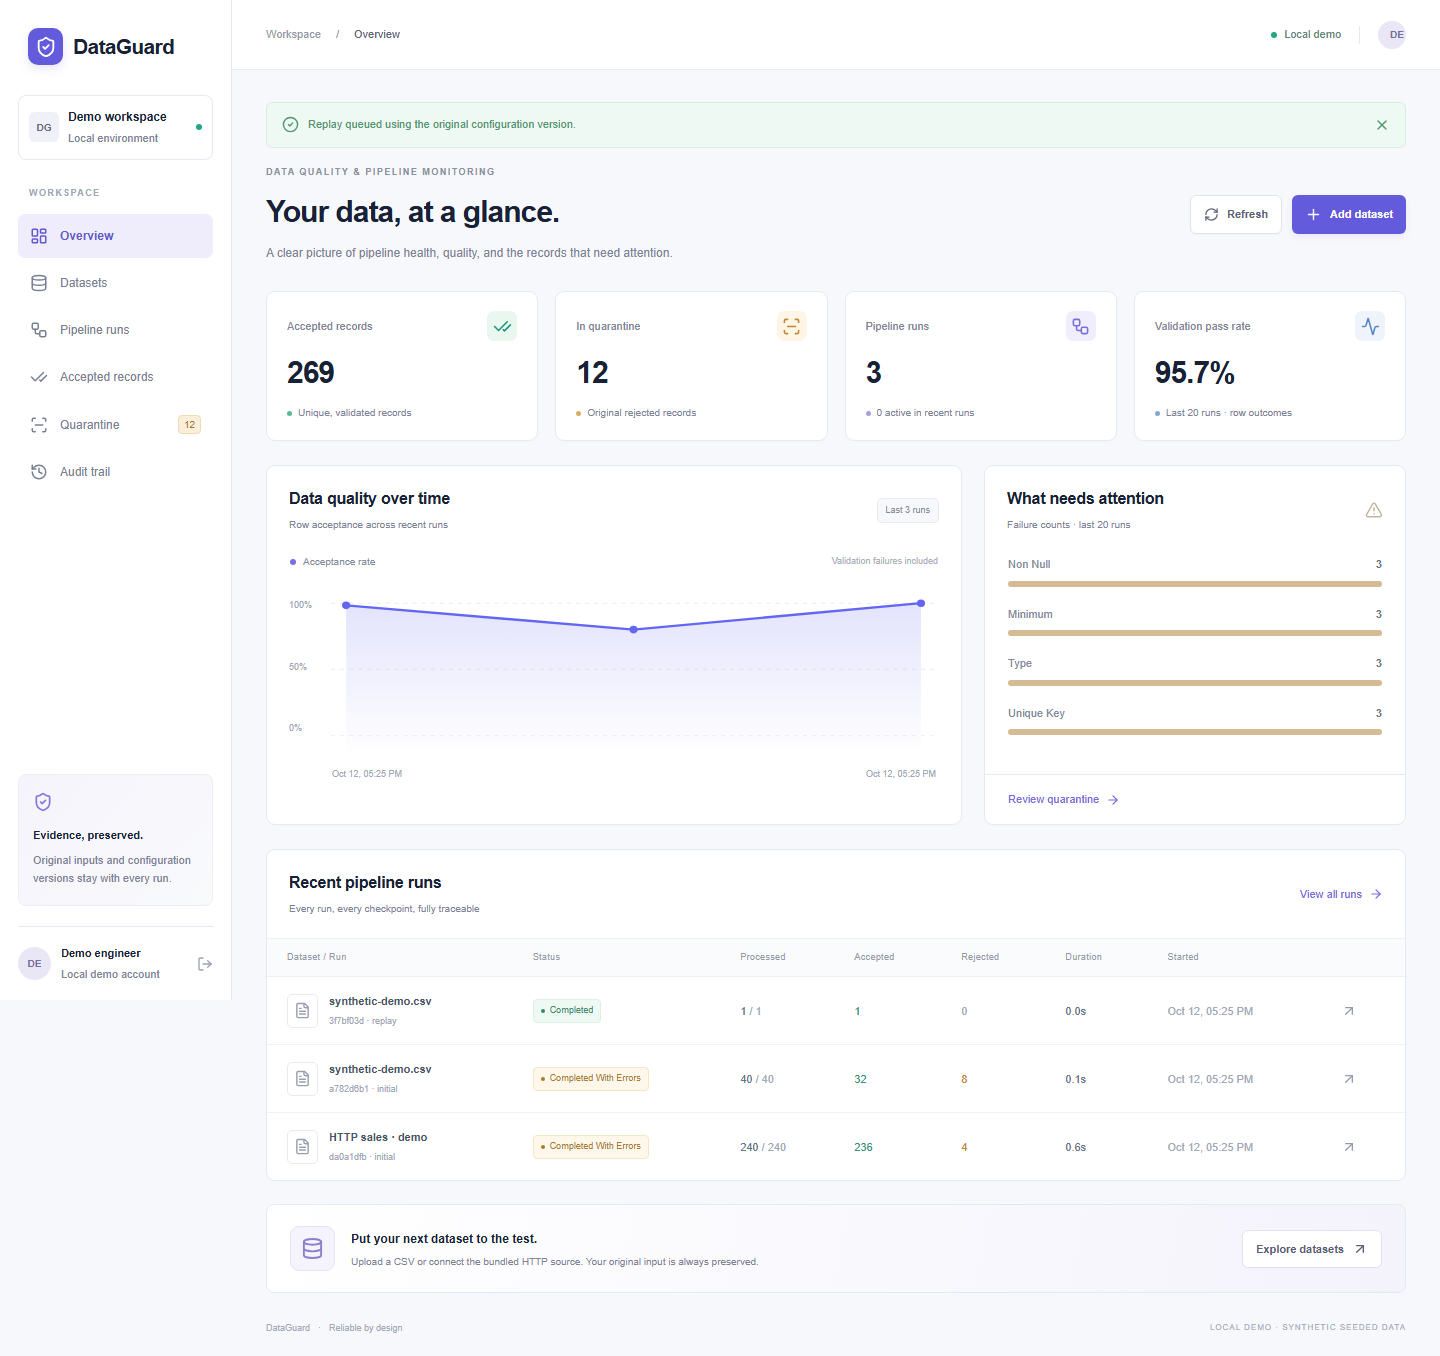
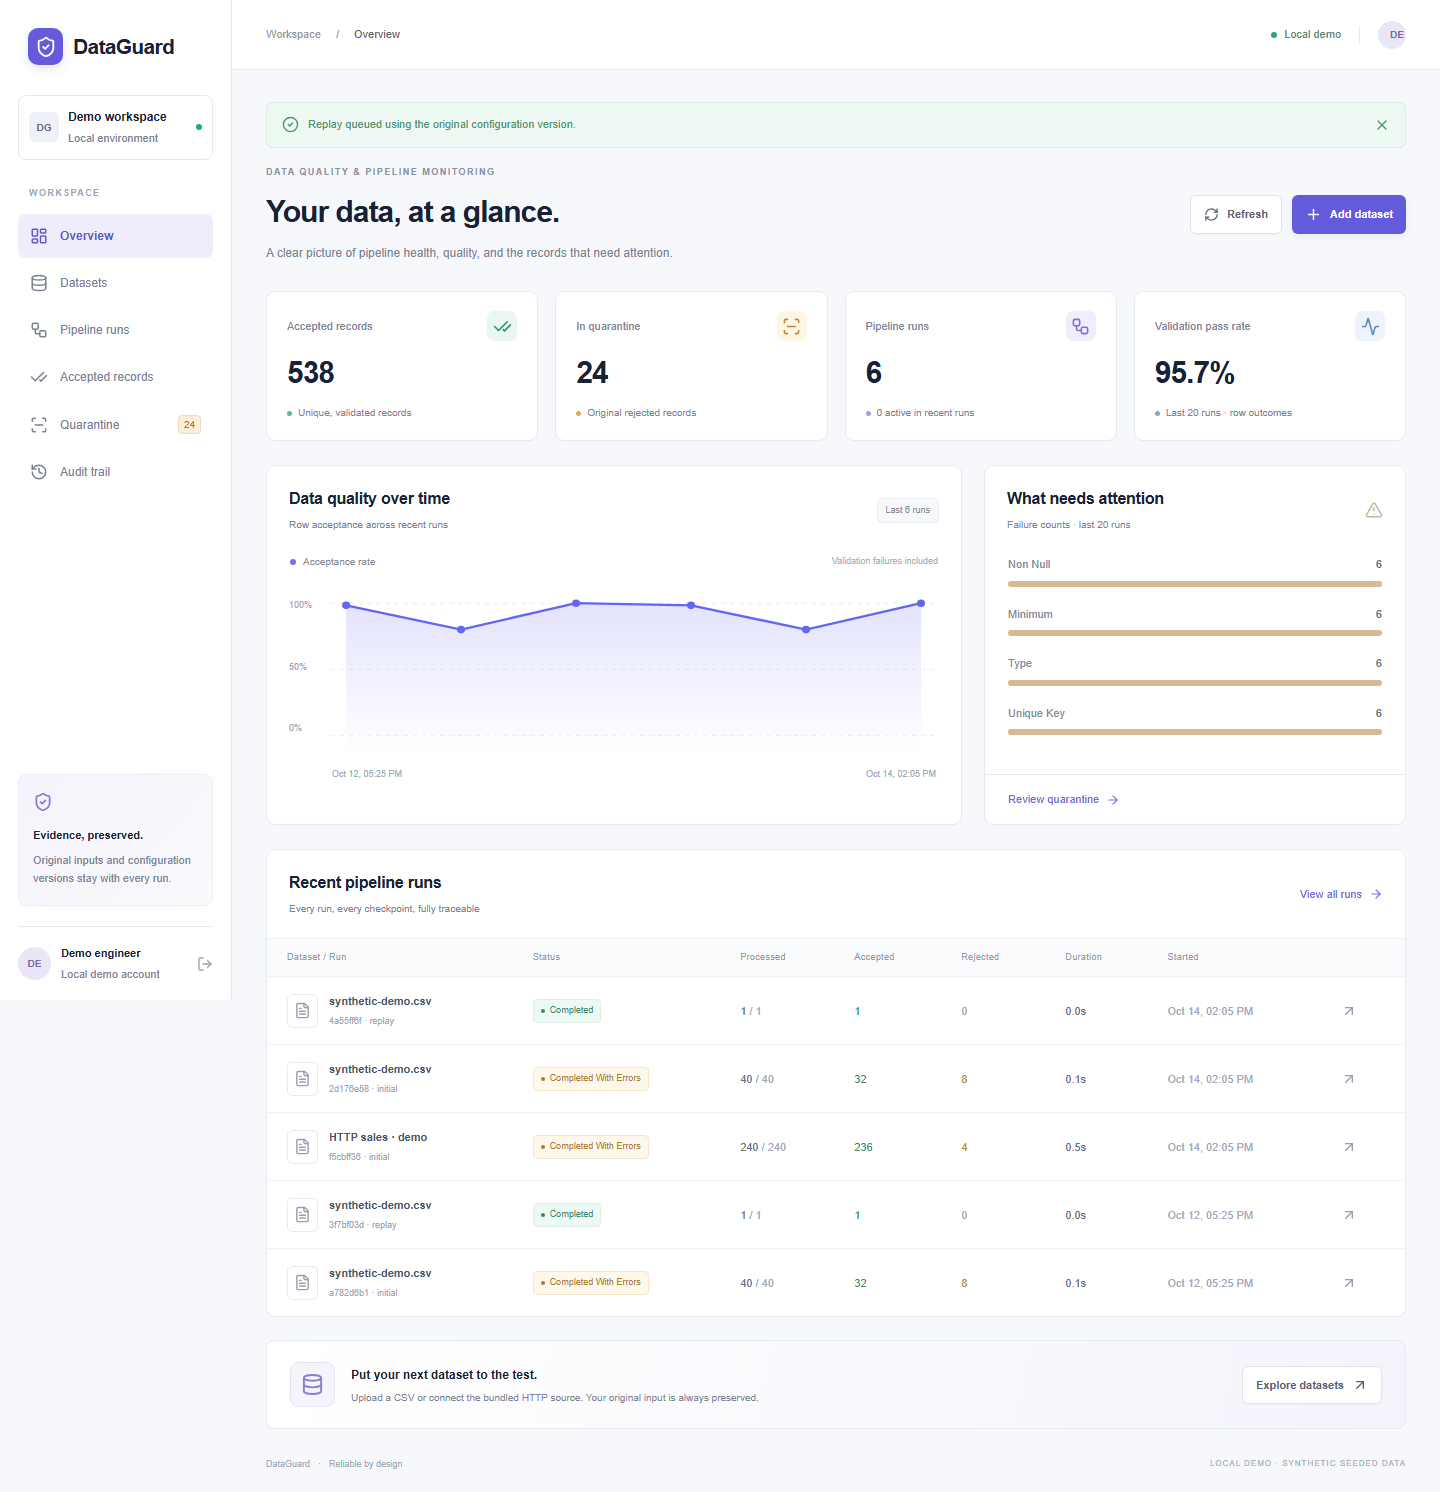
Add Windows launcher and automatic service restart after Docker recovery

diff --git a/docs/VERIFICATION.md b/docs/VERIFICATION.md
@@ -1,5 +1,13 @@
 # Verification ledger
 
+## October 14, 2026: recurring Docker startup failure
+
+Docker was stopped and failed to restart with the same inaccessible `dockerInference` socket error. Preserving the two affected runtime communication folders and relaunching Docker restored Engine 29.6.1. DataGuard's existing database volume was retained.
+
+Added `Start-DataGuard.cmd` / `Start-DataGuard.ps1` with bounded readiness checks, a conditional backup-and-retry workaround for this exact failure, and actionable errors for other failures. Verified the launcher's normal startup path with Windows PowerShell and `-NoBrowser`: Compose started successfully, API health returned OK, and the webpage returned HTTP 200. Runtime services now use `restart: unless-stopped`; the one-shot migration service does not.
+
+Both browser scenarios passed against the restored full Docker stack: **2 passed, 15.2 seconds**. This is a startup workaround, not a permanent repair of the underlying Windows/Docker issue. The automated repair branch was not deliberately retriggered after restoring the engine; its underlying backup/relaunch operations were performed during this incident.
+
 Build date: October 12, 2026 (America/Los_Angeles). Results below distinguish real tests from supplied but unexecuted deployment paths.
 
 ## Executed

diff --git a/README.md b/README.md
@@ -6,6 +6,12 @@ Upload a sales CSV, preview it, version its validation rules, process it in boun
 
 ![DataGuard dashboard](docs/dashboard.png)
 
+## Windows: one-click startup
+
+Double-click `Start-DataGuard.cmd` in this folder. It starts Docker when needed, starts DataGuard, waits for the API and webpage, and opens the app. If Docker encounters the diagnosed inaccessible temporary-socket error, the launcher preserves the affected runtime folders as timestamped backups and retries once. It does not reset Docker data or delete volumes. Other startup failures are reported without applying this repair.
+
+Runtime services use `restart: unless-stopped` so they resume when Docker returns, unless explicitly stopped. The launcher cannot permanently fix the underlying Windows/Docker socket issue. Its normal startup path was verified on October 14, 2026; the socket recovery steps were performed successfully during troubleshooting.
+
 ## Start the full application
 
 Requires Docker Desktop with its Linux engine running, or Docker Engine + Compose on Linux. From the repository root:
